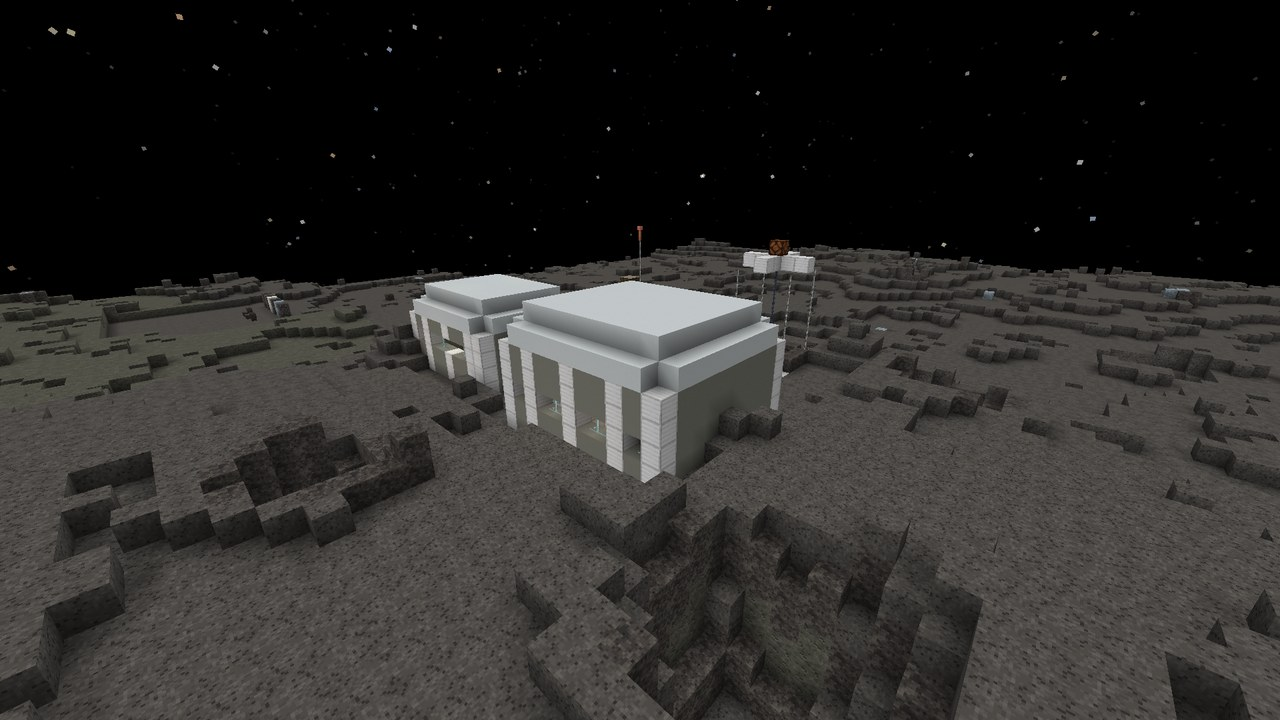
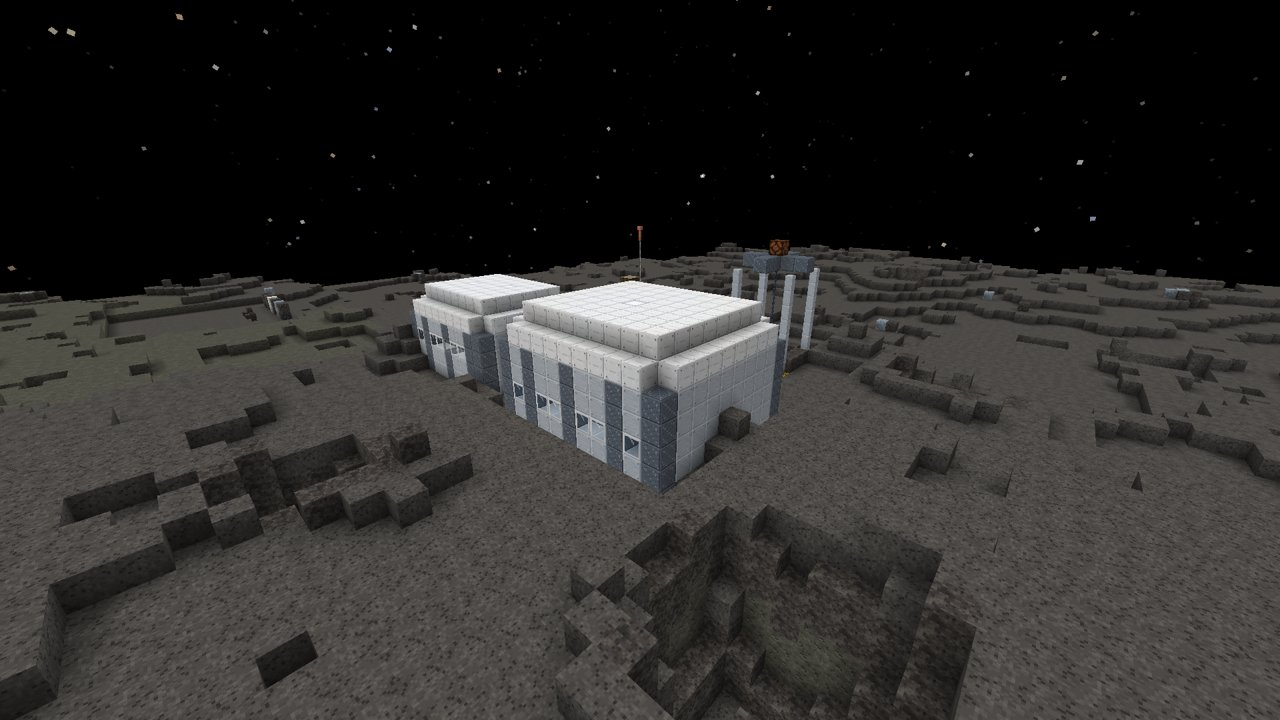
Light polish of the Ceres mining outpost
Aluminium panel walls, station hull roofs and tube, station windows,
titanium deck floors, airlock doors, LED ceiling lights, cable and pipe
runs, a shift log sign (EN/TR), a hazard-striped lit landing pad, solar
panels on the mast, aluminium struts on the head frame and steel
ladders. New habitat interior showcase frame.

diff --git a/src/main/java/com/pizzaparker07/spacebreaker/content/belt/dungeon/MiningOutpostPiece.java b/src/main/java/com/pizzaparker07/spacebreaker/content/belt/dungeon/MiningOutpostPiece.java
@@ -70,6 +70,11 @@ public class MiningOutpostPiece extends StructurePiece {
     /** Local y of the surface (floor of the buildings). */
     static final int F = DEPTH + 1;
 
+    /** World position of a local position (for showcases and tests). */
+    public BlockPos world(int x, int y, int z) {
+        return getWorldPos(x, y, z);
+    }
+
     @Override
     public void postProcess(WorldGenLevel level, StructureManager structures, ChunkGenerator generator, RandomSource random,
                             BoundingBox box, ChunkPos chunkPos, BlockPos pivot) {
@@ -103,10 +108,10 @@ public class MiningOutpostPiece extends StructurePiece {
     }
 
     private void module(WorldGenLevel level, BoundingBox box, int x0, int z0, int x1, int z1, int h) {
-        BlockState wall = s(Blocks.LIGHT_GRAY_CONCRETE);
-        BlockState frame = s(Blocks.IRON_BLOCK);
-        BlockState roof = s(Blocks.WHITE_CONCRETE);
-        BlockState floor = s(Blocks.SMOOTH_STONE);
+        BlockState wall = s(com.pizzaparker07.spacebreaker.content.rocketry.base.BaseBlocks.ALUMINUM_PANEL.base().get());
+        BlockState frame = s(com.pizzaparker07.spacebreaker.content.rocketry.base.BaseBlocks.TITANIUM_DECK.base().get());
+        BlockState roof = s(com.pizzaparker07.spacebreaker.content.rocketry.RocketryModule.STATION_HULL.get());
+        BlockState floor = s(com.pizzaparker07.spacebreaker.content.rocketry.base.BaseBlocks.TITANIUM_DECK.base().get());
         for (int x = x0; x <= x1; x++) {
             for (int z = z0; z <= z1; z++) {
                 boolean edgeX = x == x0 || x == x1;
@@ -143,16 +148,19 @@ public class MiningOutpostPiece extends StructurePiece {
         // windows: a band of glass panes in the long walls
         for (int x = x0 + 1; x < x1; x++) {
             if ((x - x0) % 3 != 2) {
-                placeBlock(level, s(Blocks.GLASS_PANE), x, F + 2, z0, box);
-                placeBlock(level, s(Blocks.GLASS_PANE), x, F + 2, z1, box);
+                placeBlock(level, s(com.pizzaparker07.spacebreaker.content.rocketry.RocketryModule.STATION_WINDOW.get()), x, F + 2, z0, box);
+                placeBlock(level, s(com.pizzaparker07.spacebreaker.content.rocketry.RocketryModule.STATION_WINDOW.get()), x, F + 2, z1, box);
             }
         }
     }
 
     private void door(WorldGenLevel level, BoundingBox box, int x, int z, Direction facing) {
-        BlockState d = Blocks.IRON_DOOR.defaultBlockState().setValue(DoorBlock.FACING, facing);
-        com.pizzaparker07.spacebreaker.content.dungeons.PieceOrientation.place(level, this, d.setValue(DoorBlock.HALF, DoubleBlockHalf.LOWER), x, F, z, box);
-        com.pizzaparker07.spacebreaker.content.dungeons.PieceOrientation.place(level, this, d.setValue(DoorBlock.HALF, DoubleBlockHalf.UPPER), x, F + 1, z, box);
+        BlockState d = com.pizzaparker07.spacebreaker.content.suit.SuitModule.AIRLOCK_DOOR.get().defaultBlockState()
+                .setValue(com.pizzaparker07.spacebreaker.content.suit.block.AirlockDoorBlock.FACING, facing);
+        com.pizzaparker07.spacebreaker.content.dungeons.PieceOrientation.place(level, this,
+                d.setValue(com.pizzaparker07.spacebreaker.content.suit.block.AirlockDoorBlock.HALF, DoubleBlockHalf.LOWER), x, F, z, box);
+        com.pizzaparker07.spacebreaker.content.dungeons.PieceOrientation.place(level, this,
+                d.setValue(com.pizzaparker07.spacebreaker.content.suit.block.AirlockDoorBlock.HALF, DoubleBlockHalf.UPPER), x, F + 1, z, box);
     }
 
     private void habitat(WorldGenLevel level, BoundingBox box, RandomSource r) {
@@ -162,14 +170,14 @@ public class MiningOutpostPiece extends StructurePiece {
             for (int y = F; y <= F + 3; y++) {
                 for (int z = 5; z <= 8; z++) {
                     boolean shell = y == F + 3 || z == 5 || z == 8;
-                    placeBlock(level, shell ? s(Blocks.LIGHT_GRAY_CONCRETE) : s(Blocks.AIR), x, y, z, box);
+                    placeBlock(level, shell ? s(com.pizzaparker07.spacebreaker.content.rocketry.RocketryModule.STATION_HULL.get()) : s(Blocks.AIR), x, y, z, box);
                 }
-                placeBlock(level, s(Blocks.SMOOTH_STONE), x, F - 1, 6, box);
-                placeBlock(level, s(Blocks.SMOOTH_STONE), x, F - 1, 7, box);
+                placeBlock(level, s(com.pizzaparker07.spacebreaker.content.rocketry.base.BaseBlocks.GRATE.get()), x, F - 1, 6, box);
+                placeBlock(level, s(com.pizzaparker07.spacebreaker.content.rocketry.base.BaseBlocks.GRATE.get()), x, F - 1, 7, box);
             }
         }
-        placeBlock(level, s(Blocks.IRON_BLOCK), 13, F + 3, 6, box);
-        placeBlock(level, s(Blocks.IRON_BLOCK), 13, F + 3, 7, box);
+        placeBlock(level, s(com.pizzaparker07.spacebreaker.content.rocketry.base.BaseBlocks.LED_PANEL.get()), 13, F + 3, 6, box);
+        placeBlock(level, s(com.pizzaparker07.spacebreaker.content.rocketry.base.BaseBlocks.LED_PANEL.get()), 13, F + 3, 7, box);
         for (int z = 6; z <= 7; z++) {
             for (int y = F; y <= F + 1; y++) {
                 placeBlock(level, s(Blocks.AIR), 11, y, z, box);
@@ -194,8 +202,16 @@ public class MiningOutpostPiece extends StructurePiece {
                 .setValue(com.pizzaparker07.spacebreaker.content.dungeons.locker.SupplyLockerBlock.FACING, Direction.EAST), 3, F, 9, box);
         com.pizzaparker07.spacebreaker.content.dungeons.PieceOrientation.place(level, this, com.pizzaparker07.spacebreaker.content.dungeons.locker.SupplyLocker.BLOCK.get().defaultBlockState()
                 .setValue(com.pizzaparker07.spacebreaker.content.dungeons.locker.SupplyLockerBlock.FACING, Direction.EAST), 3, F, 8, box);
-        placeBlock(level, Blocks.LANTERN.defaultBlockState().setValue(LanternBlock.HANGING, true), 6, F + 4, 6, box);
-        placeBlock(level, Blocks.LANTERN.defaultBlockState().setValue(LanternBlock.HANGING, true), 6, F + 4, 7, box);
+        placeBlock(level, s(com.pizzaparker07.spacebreaker.content.rocketry.base.BaseBlocks.LED_PANEL.get()), 5, F + 5, 6, box);
+        placeBlock(level, s(com.pizzaparker07.spacebreaker.content.rocketry.base.BaseBlocks.LED_PANEL.get()), 8, F + 5, 7, box);
+        for (int x = 3; x <= 10; x++) {
+            placeBlock(level, s(com.pizzaparker07.spacebreaker.content.rocketry.base.BaseBlocks.CABLE_DUCT.get()), x, F + 4, 9, box);
+        }
+        BlockPos sign = com.pizzaparker07.spacebreaker.content.dungeons.PieceOrientation.place(level, this,
+                s(Blocks.BIRCH_WALL_SIGN).setValue(net.minecraft.world.level.block.WallSignBlock.FACING, Direction.WEST), 10, F + 1, 8, box);
+        if (sign != null && box.isInside(sign)) {
+            com.pizzaparker07.spacebreaker.content.mars.dungeon.DungeonBits.signText(level, sign, "ceres_outpost_log");
+        }
         // a cracked window: the reason the crew left
         placeBlock(level, s(Blocks.AIR), 7, F + 2, 3, box);
         placeBlock(level, s(BeltModule.CERES_REGOLITH.get()), 7, F, 4, box);
@@ -226,10 +242,13 @@ public class MiningOutpostPiece extends StructurePiece {
                 .setValue(com.pizzaparker07.spacebreaker.content.dungeons.locker.SupplyLockerBlock.FACING, Direction.WEST), 25, F + 1, 10, box);
         placeBlock(level, s(Blocks.SMITHING_TABLE), 17, F, 10, box);
         placeBlock(level, s(Blocks.STONECUTTER), 18, F, 10, box);
-        placeBlock(level, Blocks.LANTERN.defaultBlockState().setValue(LanternBlock.HANGING, true), 21, F + 5, 6, box);
+        placeBlock(level, s(com.pizzaparker07.spacebreaker.content.rocketry.base.BaseBlocks.LED_PANEL.get()), 21, F + 6, 6, box);
+        for (int z = 3; z <= 10; z++) {
+            placeBlock(level, s(com.pizzaparker07.spacebreaker.content.rocketry.base.BaseBlocks.PIPE_DUCT.get()), 24, F + 5, z, box);
+        }
         // trapdoor and ladder down the inner shaft to the drift
         for (int y = 2; y < F; y++) {
-            com.pizzaparker07.spacebreaker.content.dungeons.PieceOrientation.place(level, this, Blocks.LADDER.defaultBlockState().setValue(LadderBlock.FACING, Direction.SOUTH), 21, y, 10, box);
+            com.pizzaparker07.spacebreaker.content.dungeons.PieceOrientation.place(level, this, com.pizzaparker07.spacebreaker.content.rocketry.base.BaseBlocks.STEEL_LADDER.get().defaultBlockState().setValue(LadderBlock.FACING, Direction.SOUTH), 21, y, 10, box);
             placeBlock(level, s(BeltModule.CEREAN_ROCK.base().get()), 21, y, 9, box);
         }
         com.pizzaparker07.spacebreaker.content.dungeons.PieceOrientation.place(level, this, Blocks.IRON_TRAPDOOR.defaultBlockState(), 21, F - 1, 10, box);
@@ -244,7 +263,7 @@ public class MiningOutpostPiece extends StructurePiece {
                 double d = Math.hypot(x - cx, z - cz);
                 if (d <= 5.3) {
                     boolean mark = d > 4.3 || (x == cx && Math.abs(z - cz) <= 2) || (z == cz && Math.abs(x - cx) <= 2);
-                    placeBlock(level, mark ? s(Blocks.YELLOW_TERRACOTTA) : s(Blocks.SMOOTH_STONE), x, F - 1, z, box);
+                    placeBlock(level, mark ? s(com.pizzaparker07.spacebreaker.content.rocketry.base.BaseBlocks.HAZARD_STRIPE.base().get()) : s(com.pizzaparker07.spacebreaker.content.rocketry.base.BaseBlocks.TITANIUM_DECK.base().get()), x, F - 1, z, box);
                 }
             }
         }
@@ -259,7 +278,11 @@ public class MiningOutpostPiece extends StructurePiece {
             }
         }
         placeBlock(level, s(Blocks.DAYLIGHT_DETECTOR), cx, F + 3, cz, box);
-        placeBlock(level, s(Blocks.GOLD_BLOCK), cx + 1, F + 1, cz - 1, box);
+        placeBlock(level, s(com.pizzaparker07.spacebreaker.content.belt.LanderBlocks.GOLD_FOIL_CLADDING.get()), cx + 1, F + 1, cz - 1, box);
+        // pad lights at the four compass points of the ring
+        for (int[] l : new int[][]{{0, -5}, {5, 0}, {0, 5}, {-5, 0}}) {
+            placeBlock(level, s(com.pizzaparker07.spacebreaker.content.rocketry.base.BaseBlocks.LED_PANEL.get()), cx + l[0], F - 1, cz + l[1], box);
+        }
     }
 
     private void mast(WorldGenLevel level, BoundingBox box) {
@@ -269,6 +292,8 @@ public class MiningOutpostPiece extends StructurePiece {
         placeBlock(level, s(Blocks.LIGHTNING_ROD), 14, F + 9, 14, box);
         placeBlock(level, s(Blocks.DAYLIGHT_DETECTOR), 13, F + 6, 14, box);
         placeBlock(level, s(Blocks.REDSTONE_LAMP), 14, F, 13, box);
+        placeBlock(level, s(com.pizzaparker07.spacebreaker.content.machines.MachinesModule.SOLAR_PANEL.get()), 15, F + 4, 14, box);
+        placeBlock(level, s(com.pizzaparker07.spacebreaker.content.machines.MachinesModule.SOLAR_PANEL.get()), 13, F + 4, 14, box);
     }
 
     private void headFrame(WorldGenLevel level, BoundingBox box) {
@@ -294,17 +319,17 @@ public class MiningOutpostPiece extends StructurePiece {
         }
         // collar and frame
         for (int dx = -2; dx <= 2; dx++) {
-            placeBlock(level, s(Blocks.IRON_BLOCK), cx + dx, F - 1, cz - 2, box);
-            placeBlock(level, s(Blocks.IRON_BLOCK), cx + dx, F - 1, cz + 2, box);
+            placeBlock(level, s(com.pizzaparker07.spacebreaker.content.rocketry.base.BaseBlocks.HAZARD_STRIPE.base().get()), cx + dx, F - 1, cz - 2, box);
+            placeBlock(level, s(com.pizzaparker07.spacebreaker.content.rocketry.base.BaseBlocks.HAZARD_STRIPE.base().get()), cx + dx, F - 1, cz + 2, box);
         }
         for (int y = F; y <= F + 6; y++) {
             for (int[] c : new int[][]{{-2, -2}, {2, -2}, {-2, 2}, {2, 2}}) {
-                placeBlock(level, s(Blocks.IRON_BARS), cx + c[0], y, cz + c[1], box);
+                placeBlock(level, s(com.pizzaparker07.spacebreaker.content.rocketry.base.BaseBlocks.ALUMINUM_PANEL.wall().get()), cx + c[0], y, cz + c[1], box);
             }
         }
         for (int d = -2; d <= 2; d++) {
-            placeBlock(level, s(Blocks.IRON_BLOCK), cx + d, F + 7, cz, box);
-            placeBlock(level, s(Blocks.IRON_BLOCK), cx, F + 7, cz + d, box);
+            placeBlock(level, s(com.pizzaparker07.spacebreaker.content.rocketry.base.BaseBlocks.TITANIUM_DECK.base().get()), cx + d, F + 7, cz, box);
+            placeBlock(level, s(com.pizzaparker07.spacebreaker.content.rocketry.base.BaseBlocks.TITANIUM_DECK.base().get()), cx, F + 7, cz + d, box);
         }
         for (int y = F + 2; y <= F + 6; y++) {
             placeBlock(level, s(Blocks.CHAIN), cx, y, cz, box);
@@ -382,7 +407,7 @@ public class MiningOutpostPiece extends StructurePiece {
         // ladder down the head-frame shaft, against its south wall
         for (int y = fy + 1; y < F; y++) {
             placeBlock(level, rock, 21, y, 23, box);
-            com.pizzaparker07.spacebreaker.content.dungeons.PieceOrientation.place(level, this, Blocks.LADDER.defaultBlockState().setValue(LadderBlock.FACING, Direction.NORTH), 21, y, 22, box);
+            com.pizzaparker07.spacebreaker.content.dungeons.PieceOrientation.place(level, this, com.pizzaparker07.spacebreaker.content.rocketry.base.BaseBlocks.STEEL_LADDER.get().defaultBlockState().setValue(LadderBlock.FACING, Direction.NORTH), 21, y, 22, box);
         }
         guard(level, box, BeltEntities.ROCK_MITE.get(), 9, fy + 1, 16);
         guard(level, box, BeltEntities.ROCK_MITE.get(), 6, fy + 1, 15);

diff --git a/src/testmod/java/com/pizzaparker07/spacebreaker/testmod/showcase/BeltScenario.java b/src/testmod/java/com/pizzaparker07/spacebreaker/testmod/showcase/BeltScenario.java
@@ -117,8 +117,14 @@ final class BeltScenario implements ShowcaseScenario {
         int ox = SX + 40;
         int oz = SZ - 30;
         int oy = (int) ground(level, ox + 14, oz + 14);
-        MarsScenario.placePiece(level, new MiningOutpostPiece(31L, ox, oy, oz, Direction.NORTH));
+        MiningOutpostPiece outpost = new MiningOutpostPiece(31L, ox, oy, oz, Direction.NORTH);
+        MarsScenario.placePiece(level, outpost);
         shot("07_mining_outpost", ox + 36.5, oy + 12, oz + 38.5, MoonScenario.yaw(-22, -24), 20F, 200, at(0.1), null);
+        // inside the habitat, from the bunks toward the desk, the log and the office locker
+        BlockPos hab = outpost.world(3, MiningOutpostPiece.DEPTH + 1, 5);
+        BlockPos desk = outpost.world(10, MiningOutpostPiece.DEPTH + 1, 8);
+        shot("07b_outpost_habitat", hab.getX() + 0.5, hab.getY() + 1.6, hab.getZ() + 0.5,
+                MoonScenario.yaw(desk.getX() - hab.getX(), desk.getZ() - hab.getZ()), 12F, 120, at(0.1), null);
         shot("08_outpost_drift", ox + 14.5, oy - MiningOutpostPiece.DEPTH + 1.6, oz + 7.5, 270F, 8F, 100, p -> {
             at(0.1).accept(p);
             p.addEffect(new MobEffectInstance(MobEffects.NIGHT_VISION, 2400, 0, false, false));

diff --git a/src/main/java/com/pizzaparker07/spacebreaker/content/belt/BeltData.java b/src/main/java/com/pizzaparker07/spacebreaker/content/belt/BeltData.java
@@ -68,6 +68,10 @@ public final class BeltData {
     }
 
     static void translations(Lang lang) {
+        lang.add("sign.spacebreaker.ceres_outpost_log.0", "SHIFT LOG", "VARDİYA KAYDI");
+        lang.add("sign.spacebreaker.ceres_outpost_log.1", "Drill hit salts.", "Matkap tuza");
+        lang.add("sign.spacebreaker.ceres_outpost_log.2", "Mites in the", "vurdu. Akarlar");
+        lang.add("sign.spacebreaker.ceres_outpost_log.3", "drift. Sealed.", "geldi. Kapattık.");
         lang.add("biome.spacebreaker.ceres_plains", "Cratered Plains of Ceres", "Ceres'in Kraterli Ovaları");
         lang.add("biome.spacebreaker.ceres_crater", "Cerean Crater", "Ceres Krateri");
         lang.add("biome.spacebreaker.ceres_dome", "Cryovolcanic Dome", "Kriyovolkanik Kubbe");

diff --git a/docs/CONTENT.md b/docs/CONTENT.md
@@ -242,7 +242,7 @@ Her içerik paketi gerçek istemcide vitrin dünyasında fotoğraflanır; onayda
 | 🎨 | Arazi | koyu, kraterli ovalar; Occator benzeri kraterlerde parlak sodyum karbonat lekeleri (merkez + loblu tuz lekeleri), kırık iç duvar ve duvardan düşmüş kayalar, Ahuna benzeri kriyovolkanik kubbeler, kutuplarda ve birkaç blok altta su buzu; 0,03 g |
 | 🎨 | Bloklar | Ceres Regoliti, Amonyaklı Kil, Karbonat Tuz Kabuğu (kalıcı ayak izi), Ceres Kayası (+ merdiven, basamak, duvar), Ceres Buzu, Manyetit Cevheri (→ Ham Manyetit → demir) |
 | 🎨 | Yaratık | Kaya Akarı: yassı, üst üste binen karbonat kabuklu plakalardan bir gövde, 6 kısa bacak; çakılın içinde gizlenir; birine vurulunca bütün küme uyanır ve düşük yerçekiminde uzağa sıçrar |
-| 🎨 | Zindan | Terk Edilmiş Buz Madenciliği Karakolu: mürettebat modülü, buz işleme salonu, iniş pisti, anten, kuyu kulesi; aşağıda buz merceğine açılmış galeri ve akar yuvası |
+| 🎨 | Zindan | Terk Edilmiş Buz Madenciliği Karakolu: mürettebat modülü, buz işleme salonu, iniş pisti, anten, kuyu kulesi; aşağıda buz merceğine açılmış galeri ve akar yuvası (cila: alüminyum panel duvarlar, istasyon gövdesi çatı ve tüp, istasyon pencereleri, titanyum güverte zemin, hava kilidi kapıları, LED tavan ışıkları, kablo ve boru kanalları, 'Vardiya Kaydı' tabelası; tehlike şeritli ve ışıklı iniş pisti, antende güneş panelleri, alüminyum dikmeli kuyu kulesi ve çelik merdivenler) |
 | 🎨 | Teknolojiler | Mikro Yerçekiminde Madencilik (4), Tuzlu Su Kimyası (3) |
 
 ### Vesta `spacebreaker:vesta`
